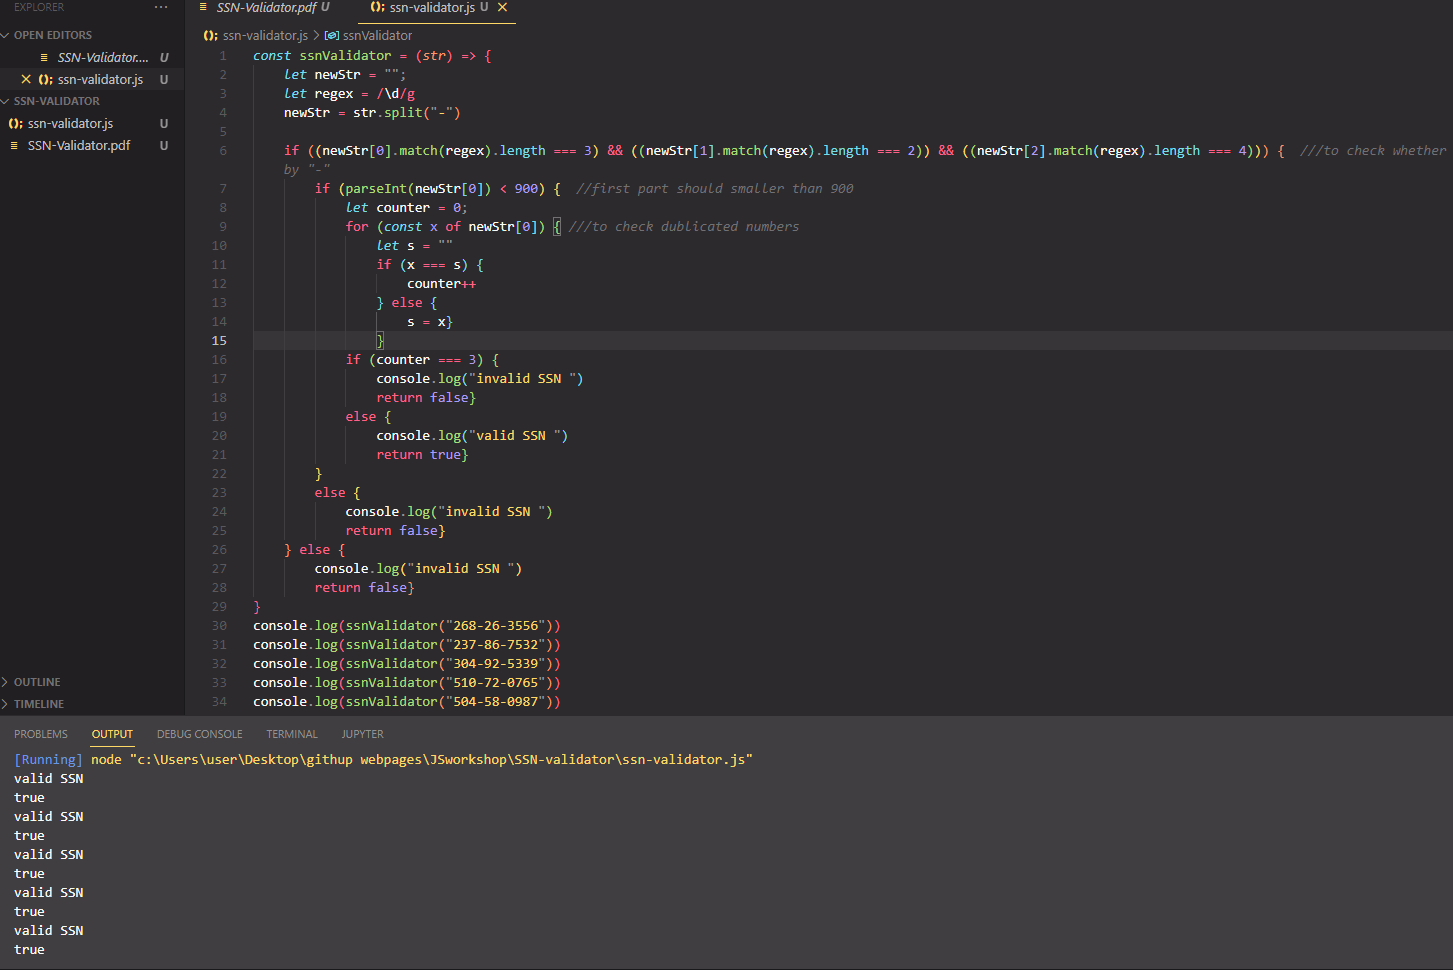
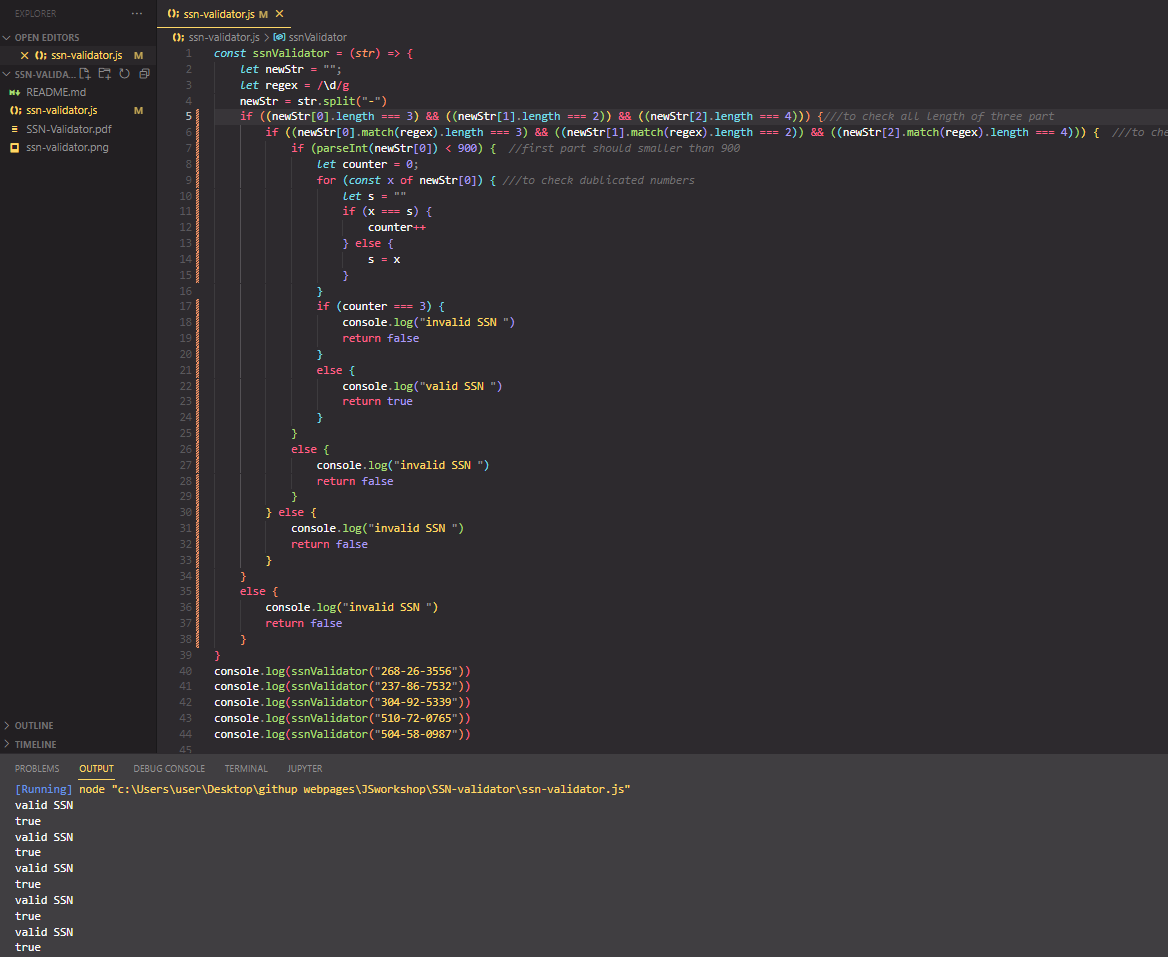
js and image updated

Changed region(s): [[0.0, 0.0, 0.9247, 1.0], [0.9247, 0.1515, 0.9863, 0.1818], [0.9863, 0.1212, 1.0, 0.1515]]

diff --git a/SSN-validator/ssn-validator.js b/SSN-validator/ssn-validator.js
@@ -2,30 +2,40 @@ const ssnValidator = (str) => {
     let newStr = "";
     let regex = /\d/g
     newStr = str.split("-")
-
-    if ((newStr[0].match(regex).length === 3) && ((newStr[1].match(regex).length === 2)) && ((newStr[2].match(regex).length === 4))) {  ///to check whether the number has 9 digit, seperated by "-"
-        if (parseInt(newStr[0]) < 900) {  //first part should smaller than 900
-            let counter = 0;
-            for (const x of newStr[0]) { ///to check dublicated numbers
-                let s = ""
-                if (x === s) {
-                    counter++
-                } else {
-                    s = x}
+    if ((newStr[0].length === 3) && ((newStr[1].length === 2)) && ((newStr[2].length === 4))) {///to check all length of three part
+        if ((newStr[0].match(regex).length === 3) && ((newStr[1].match(regex).length === 2)) && ((newStr[2].match(regex).length === 4))) {  ///to check whether the number has 9 digit, seperated by "-"
+            if (parseInt(newStr[0]) < 900) {  //first part should smaller than 900
+                let counter = 0;
+                for (const x of newStr[0]) { ///to check dublicated numbers
+                    let s = ""
+                    if (x === s) {
+                        counter++
+                    } else {
+                        s = x
+                    }
                 }
-            if (counter === 3) {
-                console.log("invalid SSN ")
-                return false}
+                if (counter === 3) {
+                    console.log("invalid SSN ")
+                    return false
+                }
+                else {
+                    console.log("valid SSN ")
+                    return true
+                }
+            }
             else {
-                console.log("valid SSN ")
-                return true}
-        }
-        else {
+                console.log("invalid SSN ")
+                return false
+            }
+        } else {
             console.log("invalid SSN ")
-            return false}
-    } else {
+            return false
+        }
+    }
+    else {
         console.log("invalid SSN ")
-        return false}
+        return false
+    }
 }
 console.log(ssnValidator("268-26-3556"))
 console.log(ssnValidator("237-86-7532"))
